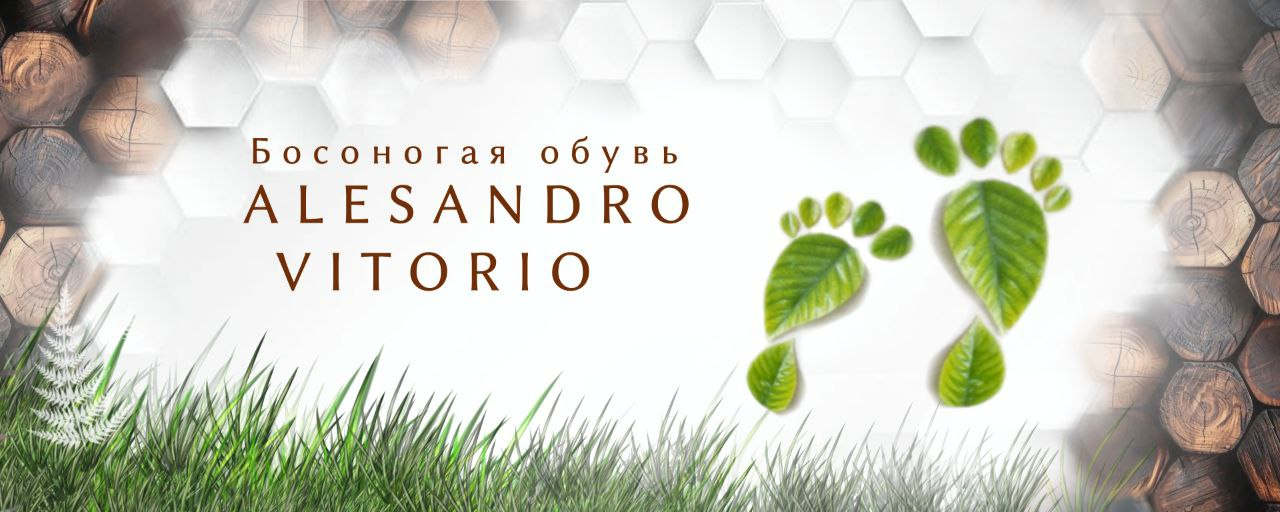
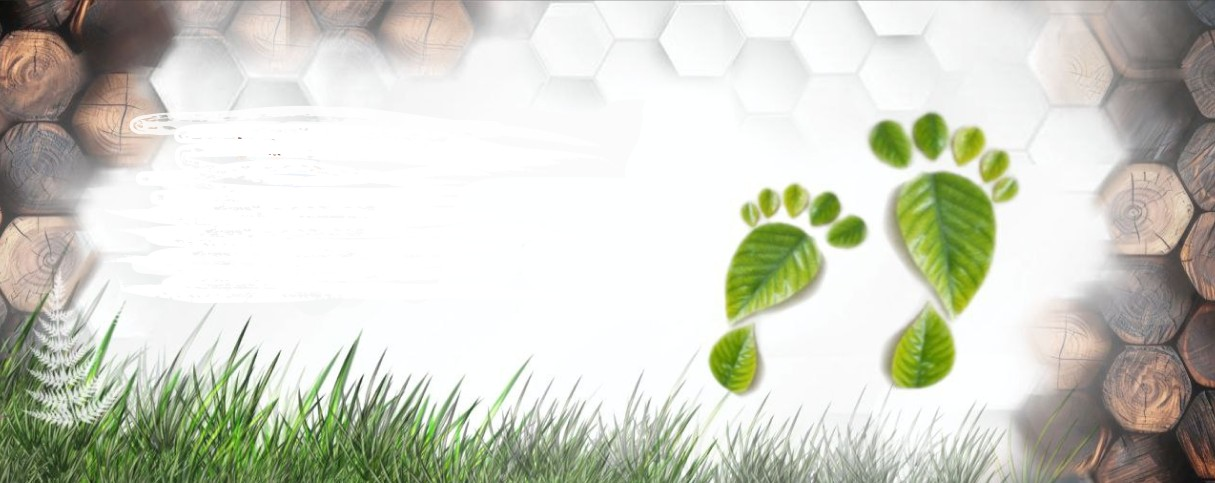
Изменил бекграунд добавил удаление нуля

diff --git a/src/components/SizeCalculator/SizeCalculator.jsx b/src/components/SizeCalculator/SizeCalculator.jsx
@@ -104,7 +104,7 @@ export default function SizeCalculator() {
                 style={{
                   backgroundImage: 'url("/back.jpg")',
                   backgroundSize: 'cover',
-                  backgroundPosition: 'right',
+                  backgroundPosition: 'bottom left -100px',
                   backgroundRepeat: 'no-repeat',
                   minHeight: '1rem',
                   maxHeight: '35rem',
@@ -120,7 +120,6 @@ export default function SizeCalculator() {
               type={key === "fullName" ? "text" : "number"}
               name={key}
               id={key}
-              value={m[key]}
               onChange={handleChange}
               className="size-calc-input"
               required={key !== "fullName"}
